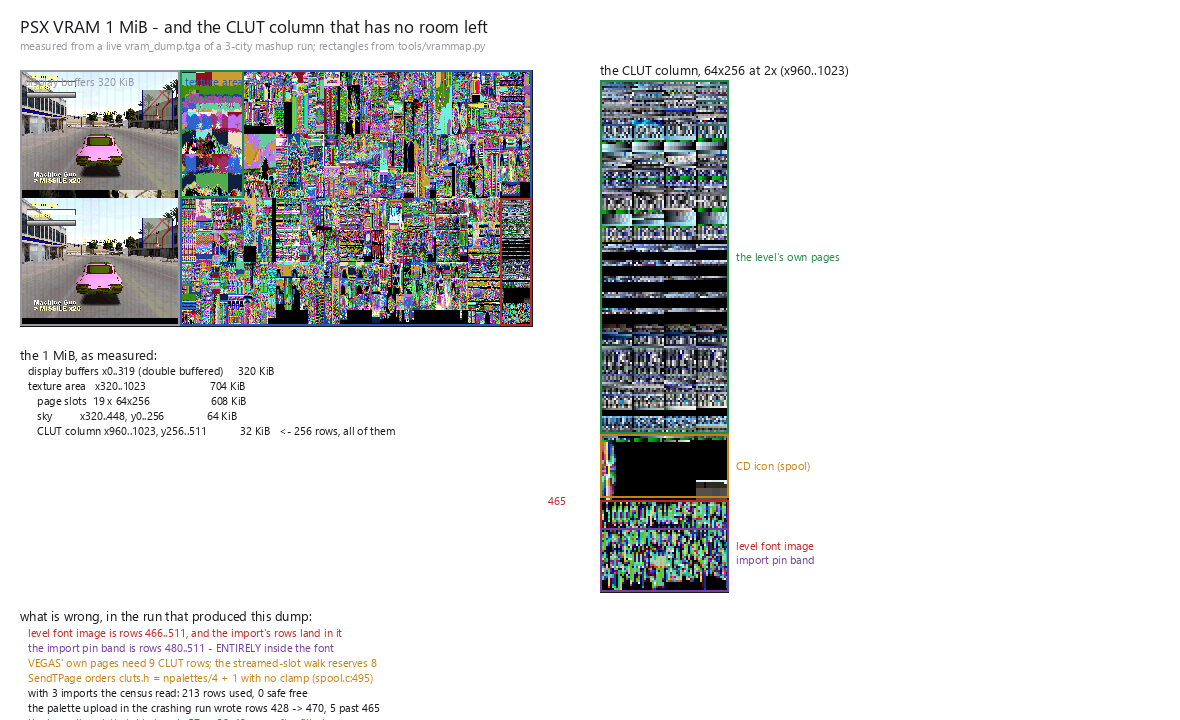
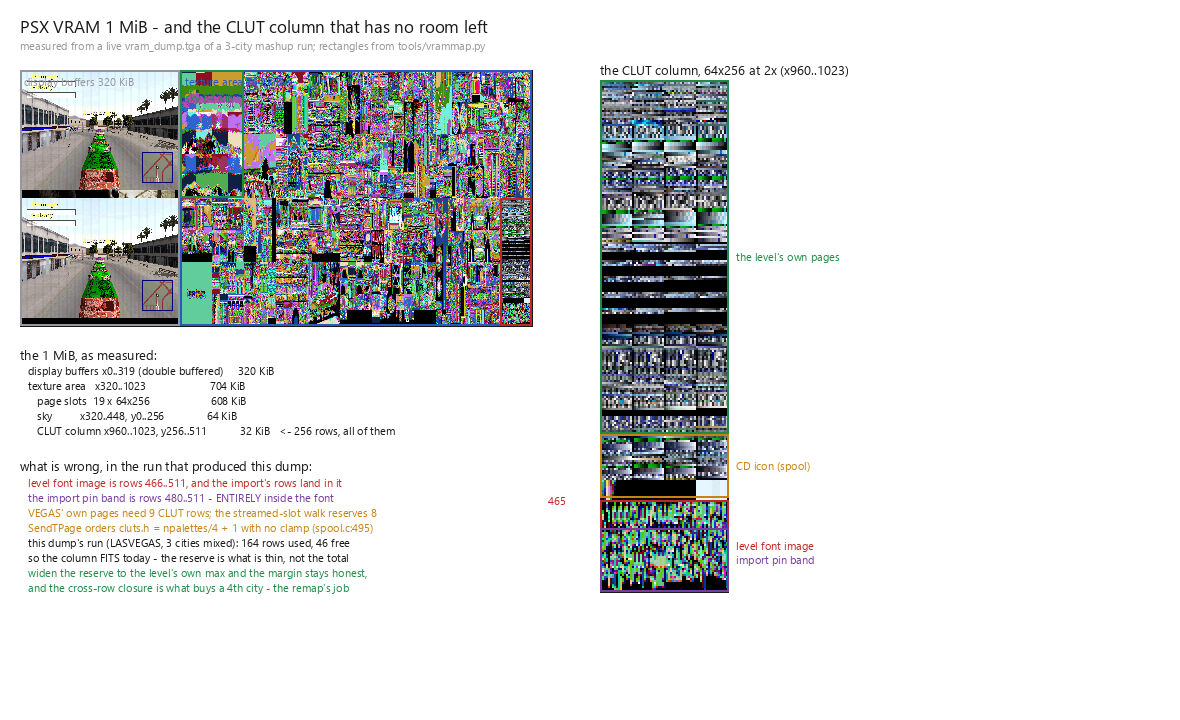
carhacks docs: fix the audit's inaccuracies, and stop the VRAM figure clipping
Documentation accuracy, from an audit of all eight docs against the code:

- README's slot table was off by one: it said 0..3 were the level's own and 4..6
  free. The code (carimport.h:14-17, mission.c:350-360, dr2limits.h:23-28) has 0..4
  as the level's civilians with 4 the traffic filler, 5..6 the spare pair and 7 the
  special body - which VEHICLES.md already said. Also recorded what the table hides:
  slot 3 is the cop car (civ_ai.c:3390) and slot 4 the traffic filler, so importing
  over 0..4 recolours the level's own traffic.
- MP_ADAPTER.md still claimed the engine reads ONE foreign city per level, and built
  its whole hotload premise on it. That stopped being true when gCarImports[4]
  landed: InitCarImport loads every city the set names and ProcessCarModelLump
  builds each slot from its own city. What is still single-city is the PALETTE side
  (the civ_clut import bank, rows 8..15) - so that is what the doc says now, and the
  superseded measurement is kept but labelled as predating the per-city block.
- CROSS_CITY.md: three wrong module line refs corrected, ChkApplyImports (which does
  not exist) -> chkImportLoadConfig in carimport.c, and "one foreign city's data is
  resident at a time" -> up to four via gCarImports[4].
- 20 stale tool paths repointed across HACK.md, VRAM.md, VEHICLES.md, CROSS_CITY.md
  and PALETTES.md: those tools stayed in cainescrossfire/tools/ when carhacks' own
  moved, so a bare tools/ path no longer resolved.
[…]

diff --git a/tools/make_vram_issues_png.py b/tools/make_vram_issues_png.py
@@ -53,7 +53,24 @@ vram = Image.open(SRC).convert("RGB")
 if vram.size != (1024, 512):
     vram = vram.resize((1024, 512), Image.NEAREST)
 
-W, H = 1180, 720
+# The "what is wrong" block lives in the LEFT column, under the legend, so it can
+# never run off the bottom of the sheet. (It used to start below the 2x CLUT strip,
+# at y=606 on a 720-tall sheet, which clipped its last two lines.)
+WRONG = (
+    (RED,   "level font image is rows 466..511, and the import's rows land in it"),
+    (PURPLE, "the import pin band is rows 480..511 - ENTIRELY inside the font"),
+    (AMBER, "VEGAS' own pages need 9 CLUT rows; the streamed-slot walk reserves 8"),
+    (AMBER, "SendTPage orders cluts.h = npalettes/4 + 1 with no clamp (spool.c:495)"),
+    (INK,   "this dump's run (LASVEGAS, 3 cities mixed): 164 rows used, 46 free"),
+    (INK,   "so the column FITS today - the reserve is what is thin, not the total"),
+    (GREEN, "widen the reserve to the level's own max and the margin stays honest,"),
+    (GREEN, "and the cross-row closure is what buys a 4th city - the remap's job"),
+)
+BLOCK_Y = 456                         # just under the left legend (which ends at 438)
+BLOCK_H = 19 + 15 * len(WRONG)        # one title line, then one per entry
+
+# The sheet grows if the block ever outgrows it, so text cannot be clipped again.
+W, H = 1180, max(720, BLOCK_Y + BLOCK_H + 16)
 sheet = Image.new("RGB", (W, H), WHITE)
 d = ImageDraw.Draw(sheet)
 
@@ -118,21 +135,13 @@ d.text((ZX - 52, row(SAFE_LAST + 1) - 7), "465", fill=RED, font=small)
 d.text((ZX, ZY - 20), "the CLUT column, 64x256 at 2x (x960..1023)",
        fill=INK, font=font)
 
-# ---- what that means --------------------------------------------------------
-y = ZY + 256 * ZC + 14
+# ---- what that means (left column, under the legend) ------------------------
+y = BLOCK_Y
 d.text((SX, y), "what is wrong, in the run that produced this dump:", fill=INK, font=font)
 y += 19
-for col, line in (
-    (RED,   "level font image is rows 466..511, and the import's rows land in it"),
-    (PURPLE, "the import pin band is rows 480..511 - ENTIRELY inside the font"),
-    (AMBER, "VEGAS' own pages need 9 CLUT rows; the streamed-slot walk reserves 8"),
-    (AMBER, "SendTPage orders cluts.h = npalettes/4 + 1 with no clamp (spool.c:495)"),
-    (INK,   "with 3 imports the census read: 213 rows used, 0 safe free"),
-    (INK,   "the palette upload in the crashing run wrote rows 428 -> 470, 5 past 465"),
-    (GREEN, "the import's palette table is only 57 -> 38-42 rows after filtering,"),
-    (GREEN, "but the cross-row closure pulls 142-152 of them back - the remap's job"),
-):
+for col, line in WRONG:
     d.text((SX + 8, y), line, fill=col, font=small); y += 15
+assert y <= H, "the sheet is too short for the block: %d > %d" % (y, H)
 
 os.makedirs(os.path.dirname(OUT), exist_ok=True)
 sheet.save(OUT)

diff --git a/docs/CROSS_CITY.md b/docs/CROSS_CITY.md
@@ -100,8 +100,8 @@ The import mallocs and holds the **whole foreign DATA1 region**
 (the block is a sub-range; `FORMATS.md` §1 sizes DATA1, §3 sizes the block) —
 plus the foreign `.LCF` (4096 bytes on disk). All of it is held for the **whole
 level**: it is freed only when the next level initialises the import again
-(`FreeCarImport` at `models.c:424`), or on a failed load. So one foreign city's
-data is resident at a time.
+(`FreeCarImport` at `models.c:424`), or on a failed load. Up to **four** cities' data can be resident at once
+(`gCarImports[4]`), one block per imported slot.
 
 A stock level pays nothing: `gCarImportCity` stays `-1` and every `GetCarImport*`
 getter answers NULL (`models.c:455-537`).
@@ -154,7 +154,9 @@ full:
 So the column accepts **one** imported car and already paints over rows 466..511
 (the level font) to do it (`VRAM.md` §6.1; the import's own rows start at `y=480`).
 A second city adds a whole second palette table (~15 KB ≈ 40+ rows) with **no room
-at all**. That is why "one foreign city per level" is honest, and why the CLUT
+at all**. That is why **one guest city's PALETTES per level** is honest — the
+geometry side holds several cities (`gCarImports[4]`), but the palette side does
+not — and why the CLUT
 reclaim in `VRAM.md` §6.1 is the *prerequisite* for the hotload, not a parallel
 task: until the column can hold two cities, no amount of RAM headroom helps.
 
@@ -177,7 +179,7 @@ did not load".
   no model 11 (the model-completeness table is `FORMATS.md` §3). A slot forced to
   a model the city lacks, with no fallback, is left with NULL model pointers —
   the state `CreateDentableCar`'s guard flags (`denting.c:224`, `:237`). The
-  carhacks module lists this explicitly (`carhacks.c:27-28`).
+  carhacks module lists this explicitly (`carhacks.c:33-40`).
 - **The special slot ignores the per-city colours.** `car_cosmetics[SPECIAL_CAR_SLOT]`
   is not taken per model — it uses the cache `levelSpecCosmetics[model - 8]`,
   filled once for models 8..12 (`SetupSpecCosmetics`, `cosmetic.c:150-168`).
@@ -205,7 +207,7 @@ did not load".
 
 ## Turning it on
 
-In `JERICHO/CONFIG/carhacks.ini` (off by default — `carhacks.c:47`):
+In `JERICHO/CONFIG/carhacks.ini` (off by default — `carhacks.c:55`):
 
 ```
 cross_city_vehicles = 1
@@ -213,7 +215,7 @@ import = 2:0:10
 ```
 
 `cross_city_vehicles` gates the whole hack. `import` takes comma-separated
-`slot:city:model` entries (`carhacks.c:143-206`) — here, Chicago's school bus
+`slot:city:model` entries (`carimport.c:251-345`) — here, Chicago's school bus
 (model 10) into resident slot 2. City numbers are `0` CHICAGO, `1` HAVANA,
 `2` VEGAS, `3` RIO (`system.c:130`). Slots 0..4 feed ambient traffic (the model
 list is `modelRandomList`, `civ_ai.c:47`), 5.. up to count-2 are spare capacity
@@ -242,7 +244,7 @@ the foreign file really is what got loaded — `FORMATS.md` §3 owns those figur
   after (`:433-451`), and holds the per-slot city (`GetCarModelSourceCity`, `:334`).
 - **`carhacks.c`** is the module: `ChkOnCarDataSource` reads
   `source_city` / `traffic_model` / `traffic_slot` and calls
-  `ChkApplyImports` for the `import` list. It does not compute anything and does not
+  `chkImportLoadConfig` for the `import` list. It does not compute anything and does not
   choose the player's car —
   it just writes model numbers and source cities and lets the engine read them.
 - **Consumers:** `ProcessCarModelLump` (`models.c:633`), `ProcessCosmeticsLump`
@@ -321,14 +323,14 @@ Still open:
 - **The thrash meter is the thing to watch.** If `page re-uploads` in the final page
   state grows with the frame count, something is still taking pages back — check the
   two `spool.c` sites first, since they bypass `LoadTPageAndCluts` by design.
-- **Run `tools/crosscheck.py` (or `devcheck.sh`, which calls it) instead of reading the
+- **Run `cainescrossfire/tools/crosscheck.py` (or `cainescrossfire/tools/devcheck.sh`, which calls it) instead of reading the
   page state by eye.** It asserts the three things the engine's own summary cannot see
   (`carhacks/docs/HACK.md`, "Where an imported page may live now"): an imported page must not
   sit on the world's/scenery's rectangle, must not take a live local car's page, and its
   CLUTs must match the source city's file.
 - Visual confirmation stays the user's: the logs prove pages are placed, claimed and
   kept — not that a car looks right. `-vramview` opens a second window showing the
-  live VRAM so a page or CLUT can be watched as it changes, `tools/cardump.py` renders
+  live VRAM so a page or CLUT can be watched as it changes, `cainescrossfire/tools/cardump.py` renders
   last run's pages under each palette, and `tools/levpalette.py` gives the defaults to
   compare against.
 
@@ -358,7 +360,7 @@ fanned out to the side, where a spawn point's kerb or wall is):
     [carhacks] spawn: CHICAGO model 8 (resident slot 4) in CAR_DATA slot 2, palette 0, 900 ahead - player (24453,30,-497793) car (25353,30,-497794)
     [carhacks] spawn: HAVANA model 9 (resident slot 5) in CAR_DATA slot 3, palette 0, 1800 ahead - player (24453,30,-497793) car (26253,30,-497794)
     [carhacks] spawn: VEGAS model 10 (resident slot 6) in CAR_DATA slot 4, palette 0, 2700 ahead - player (24453,30,-497793) car (27154,30,-497795)
-    [carhacks] spawn: 3 imported car(s) placed ahead of the player
+    [carhacks] spawn: 3 imported car(s) placed ahead of the player, 1500 units apart
 
 The recipe is the one cainescrossfire's own opponent spawn already proves
 (`ai/opponent.c:518-528,678`): the first `CAR_DATA` whose `controlType` is

diff --git a/MP_ADAPTER.md b/MP_ADAPTER.md
@@ -17,8 +17,10 @@ Two facts, both measured:
    same number is a *different* vehicle in each (`VEHICLES.md`). So "Rio's model 9"
    is not expressible on mp's wire at all.
 
-On top of that, the engine reads a level's car data from **one** foreign city
-(`models.c`, `gCarModelSource`), so a session has to *agree* which city that is.
+On top of that, while the *geometry* side is now per-city (`gCarImports[4]`,
+one block per slot), the **palette** side still admits one guest city - the
+`civ_clut` import bank, rows 8..15 - so a session has to *agree* which city
+that is.
 Today it is whatever each machine's own `carhacks.ini` happens to say.
 
 ## The identity schema — `carid.h`
@@ -93,11 +95,12 @@ picker, so the local car always comes out palette 0 and none of this would ever
 fire. `CHK_FORCE_PLAYER_PALETTE=<n>` sets it, the way `CHK_FORCE_CAR` drives the
 menu.
 
-**The limit - one foreign city per level.** `chkNetFoldPeerCars()` folds every
+**The limit - one guest city's PALETTES.** `chkNetFoldPeerCars()` folds every
 peer's car into the level's import set, so a peer is drawn as their own vehicle
-where the engine can hold it. It cannot when that car comes from a SECOND foreign
-city: the engine reads one foreign city per level, and the set refuses the entry
-loudly (below). A car from the level's own city is skipped - it needs no import,
+where the engine can hold it. The geometry side now holds several cities at once
+(`gCarImports[4]`, one block per slot), but the **palette** side does not: the
+`civ_clut` import bank (rows 8..15) is one city's worth of rows, and the set
+refuses a second city's entry loudly (below). A car from the level's own city is skipped - it needs no import,
 and skipping it keeps an identity that has not settled yet from claiming a spare
 slot with the level's own model 0.
 
@@ -109,8 +112,10 @@ unit.
 
 ### The hotload hand-off (next unit)
 
-**Measured first: a second city is not partially supported, it is absent.** The
-gate was opened by hand (`two_guest_cities = 1`, a measurement lever in
+**Measured first, BEFORE the per-city import block landed.** The log below is
+from that build, when a second city's geometry really was absent; the per-city
+block has since removed that specific symptom, and this is kept as the record of
+what the measurement looked like. The gate was opened by hand (`two_guest_cities = 1`, a measurement lever in
 `carimport.c`) so the ENGINE finally saw a set naming two cities:
 
 ```
@@ -124,9 +129,9 @@ cross-city: slot 5 geometry from HAVANA model 8
 [pair] verdict: PASS   (no crash, no dump, 0 dumps)
 ```
 
-The per-slot source city is real, but a level's car lumps are read for ONE city
-(`ProcessCarModelLump`), so a slot pointing at a second city gets no data at all -
-quietly. That is what the hotload actually has to do:
+The per-slot source city is real, and each slot now builds from its own city
+(`ProcessCarModelLump`, `models.c:764-783`). That is what the hotload actually
+has to do:
 
 1. The identity is already there: `chkNetPeerCar()` says which (city, model) each
    peer drives, and `chkNetFoldPeerCars()` is already the place a car joins the set.
@@ -145,9 +150,9 @@ quietly. That is what the hotload actually has to do:
 
 ## Authority and lifecycle
 
-The **host is authoritative**, and the reason is the engine's one-guest-city rule:
-there is exactly one foreign city per level, so the host's choice has to win for
-everyone. `mp_agree_imports = 0` (`carhacks.ini`) turns the whole agreement off —
+The **host is authoritative**, and the reason is the palette bank's one-guest-city
+rule: the `civ_clut` import bank admits one city, so the host's choice has to win
+for everyone. `mp_agree_imports = 0` (`carhacks.ini`) turns the whole agreement off —
 every machine keeps its own set, which is what a session where the players
 deliberately want different cars needs, and what the three-city stress test below
 uses.

diff --git a/docs/HACK.md b/docs/HACK.md
@@ -80,16 +80,16 @@ region to put a foreign vehicle's pages in.
 
 | what | how |
 |---|---|
-| drive a Rio police car in Havana | `tools/launch_havana_rio_police.bat [model] [test [frames]]` (model 0 = the Rio police car) |
-| drive a Havana police car in Rio | `tools/launch_rio_havana_police.bat [model] [test [frames]]` (model 0 = the Havana police car) |
-| any cross-city combination | `tools/devcheck.sh [frames]` — exits non-zero on failure |
+| drive a Rio police car in Havana | `cainescrossfire/tools/launch_havana_rio_police.bat [model] [test [frames]]` (model 0 = the Rio police car) |
+| drive a Havana police car in Rio | `cainescrossfire/tools/launch_rio_havana_police.bat [model] [test [frames]]` (model 0 = the Havana police car) |
+| any cross-city combination | `cainescrossfire/tools/devcheck.sh [frames]` — exits non-zero on failure |
 | where the player's car came from | `JERICHO-RUN: level=… carslot=5 model=9 …` then the engine's `slot 5 geometry from RIO model 9` |
 | where imported pages landed | `cross-city: pinned set 77 index 77: slot=14, rect=(512,0), page=0008 …` |
-| what is actually in VRAM | `JERICHO_DUMPVRAM=1` then `tools/vramdump.py vram_dump.tga --png out.png` |
+| what is actually in VRAM | `JERICHO_DUMPVRAM=1` then `cainescrossfire/tools/vramdump.py vram_dump.tga --png out.png` |
 | where VRAM went, and what is left | the engine's own `JERICHO-VRAM: texture used=704/704 KiB (slots 608 + clut 32 + sky 64); clut strip 172/256 rows (84 free); … largest free in texture area=…` line, printed once per level load (see also `tools/vrammap.py`) |
 | what a city's car palettes *should* be | `tools/levpalette.py LEVELS/<CITY>.LEV --out out/` — a swatch PNG + a text table per city, from `LUMP_PALLET` (see `PALETTES.md` §7) |
-| the last run's car textures under each palette | `tools/cardump.py vram_dump.tga --log JERICHO.log --out out/` — one PNG per imported set, a row per palette, plus the run's actual page CLUT as a control (`PALETTES.md` §7) |
-| whether a run's palettes/pages behaved | `tools/crosscheck.py <run text> [--tga vram_dump.tga] [--lev SRC.LEV]` — the three invariants the engine's own summary misses (exit 0 held / 1 violated / 2 no import) |
+| the last run's car textures under each palette | `cainescrossfire/tools/cardump.py vram_dump.tga --log JERICHO.log --out out/` — one PNG per imported set, a row per palette, plus the run's actual page CLUT as a control (`PALETTES.md` §7) |
+| whether a run's palettes/pages behaved | `cainescrossfire/tools/crosscheck.py <run text> [--tga vram_dump.tga] [--lev SRC.LEV]` — the three invariants the engine's own summary misses (exit 0 held / 1 violated / 2 no import) |
 | VRAM live, while you play | `-vramview [frames]` opens a second window showing the live VRAM every frame (and re-dumps `vram_live.tga` every N frames, default 15, for `vramdump.py`) |
 | replay a run exactly | `-seed N` (the seed picks module randomness) |
 
@@ -195,12 +195,12 @@ Reproduce with:
 ```
 JERICHO_DUMPVRAM=1 ./REDRIVER2_dev.exe -nointro -level havana -car 9 ... -frames 200 -seed 7
 grep "imported slot\|poly tpage index\|pinned set\|page check" JERICHO.log
-python3 tools/vramdump.py vram_dump.tga --log JERICHO.log --samples --png overlay.png
+python3 cainescrossfire/tools/vramdump.py vram_dump.tga --log JERICHO.log --samples --png overlay.png
 ```
 
 `page check - slot 5 clean: 238 of 254 polys resolve to a pinned imported page` is the
 one-line regression test; anything below that number is a poly drawing a rectangle the
-import never filled. `tools/vramdump.py --samples` boxes the sampled rectangles (red, with
+import never filled. `cainescrossfire/tools/vramdump.py --samples` boxes the sampled rectangles (red, with
 poly counts) against the pinned ones (green) on a dump.
 
 **Residual (known, measured):** the remaining polys name **set 0**, which has no page in

diff --git a/README.md b/README.md
@@ -207,9 +207,15 @@ shares the same `MAX_CAR_RESIDENT_MODELS` array:
 
 | slots | who |
 |---|---|
-| `0..3` | the level's own city's cars |
-| `4..6` | **free** — where imports go, and where **mp** puts an extra player's car |
-| `7` | the level's special body |
+| `0..4` | the level's own city's civilians — `mission.c:350-354` fills these from the mission header, and `4` is the engine's own traffic filler (`dr2limits.h:23-28`) |
+| `5..6` | **free** — the spare pair. This is where imports go, and where **mp** puts an extra player's car |
+| `7` | the level's special body (`SPECIAL_CAR_SLOT`) |
+
+Two of the civilian slots are load-bearing and must not be imported over casually:
+**slot 3 is the cop car** (`externalCopModel = residentCarModels[3]`, `civ_ai.c:3390`)
+and **slot 4 is the traffic filler**. A set *may* name 0..4 — the parser accepts any
+slot below the count — but that recolours the level's own traffic, because traffic
+rolls slots 0/1/2/4 (`civ_ai.c:47`). The module's own choosers start at **5**.
 
 With `mp` loaded, slots **5 and 6** belong to the session (one per additional
 player). This is why carhacks' `CAR_DATA_SOURCE` handler runs at priority 10: the
@@ -410,7 +416,7 @@ player**:
 ```
 [carhacks] spawn: CHICAGO model 8 (resident slot 4) in CAR_DATA slot 2, palette 0,  900 ahead - player (24453,30,-497793) car (25353,30,-497794)
 [carhacks] spawn: HAVANA  model 9 (resident slot 5) in CAR_DATA slot 3, palette 0, 1800 ahead - player (24453,30,-497793) car (26253,30,-497794)
-[carhacks] spawn: 3 imported car(s) placed ahead of the player
+[carhacks] spawn: 3 imported car(s) placed ahead of the player, 1500 units apart
 ```
 
 They go **forward**, along the matrix's third column — the engine's own "a point
@@ -447,9 +453,12 @@ Everything is in the run's log; grep for these:
 
 ## Docs
 
-The mechanism and the city data formats are documented next to the engine code they
-reverse-engineer, in Caine's Crossfire's folder (so they were not moved with the
-code):
+The mechanism and the city data formats live in this module's `docs/`, beside the
+code they describe. (Only `FORMATS.md`, which documents the level-file and car-lump
+formats that Caine's Crossfire's own tools read, stayed in
+`cainescrossfire/carhacks/`.) Note that engine `file:line` citations throughout
+these docs are **approximate by design** - the engine moves, the mechanism does
+not - so confirm a citation before relying on the exact line:
 
 - [`CROSS_CITY.md`](docs/CROSS_CITY.md) — what a cross-city import is, cost and lifetime, the budget, the traps
 - [`HACK.md`](docs/HACK.md) — the mechanism in the order it runs

diff --git a/docs/PALETTES.md b/docs/PALETTES.md
@@ -278,7 +278,7 @@ A useful run proves three things instead:
 1. no imported set resolves into a *host* `civ_clut` row;
 2. no imported page occupies a VRAM rectangle the world streams into;
 3. a world set's `texture_pages[]` / `texture_cluts[]` agree with the pixels
-   actually at its rectangle (see `tools/vramdump.py`).
+   actually at its rectangle (see `cainescrossfire/tools/vramdump.py`).
 
 ---
 
@@ -287,9 +287,9 @@ A useful run proves three things instead:
 | what | how |
 |---|---|
 | what a city's car palettes *should* look like | `tools/levpalette.py <CITY>.LEV` — reads `LUMP_PALLET` and writes a swatch sheet per city + the raw rows (`--out DIR`) |
-| what a car's texture looks like under **each** of its palettes, from the **last run** | `tools/cardump.py` — takes the run's `vram_dump.tga` (`JERICHO_DUMPVRAM=1`) plus the run's log, and blits each imported car's texture page(s) through each palette to one PNG per palette |
-| whether a run's palettes/pages actually behaved | `tools/crosscheck.py <run text> [--tga vram_dump.tga] [--lev SRC.LEV]` — asserts the three invariants in §6 (exit 0 held / 1 violated / 2 no import) |
-| what is actually in VRAM right now | `-vramview [frames]` (live window) / `tools/vramdump.py vram_dump.tga --png out.png` |
+| what a car's texture looks like under **each** of its palettes, from the **last run** | `cainescrossfire/tools/cardump.py` — takes the run's `vram_dump.tga` (`JERICHO_DUMPVRAM=1`) plus the run's log, and blits each imported car's texture page(s) through each palette to one PNG per palette |
+| whether a run's palettes/pages actually behaved | `cainescrossfire/tools/crosscheck.py <run text> [--tga vram_dump.tga] [--lev SRC.LEV]` — asserts the three invariants in §6 (exit 0 held / 1 violated / 2 no import) |
+| what is actually in VRAM right now | `-vramview [frames]` (live window) / `cainescrossfire/tools/vramdump.py vram_dump.tga --png out.png` |
 | which sets/rows a level uses | the engine's own lines: `cross-city: level page state …`, `cross-city: %s set %d -> index %d …`, `cross-city: pinned set %d index %d: slot=%d, rect=(%d,%d) …` |
 
 The exporter tools are how a fix is shown *visually*: `levpalette.py` gives the

diff --git a/docs/VEHICLES.md b/docs/VEHICLES.md
@@ -65,7 +65,7 @@ Known so far, and worth keeping:
 | CHICAGO | 10 | school bus | `CARMODEL_10_clean.dmodel`; `-car slot8` |
 | CHICAGO | 11 | (reserved, no data) | forcing it crashes in load |
 | VEGAS | (special) | ambulance | "Steal the Ambulance" mission; exact model TBC |
-| HAVANA | **0** | **police car** | found by cycling (`tools/cycle_vehicles.bat`); drives from `import = 3:1:0` in Rio (slot 3 = Rio's model 0) |
+| HAVANA | **0** | **police car** | found by cycling (`cainescrossfire/tools/cycle_vehicles.bat`); drives from `import = 3:1:0` in Rio (slot 3 = Rio's model 0) |
 | HAVANA | 9 | truck | seen in Rio (import slot 5) — so 9 is NOT the cop car |
 
 Not yet identified — look at the car in a level, then write it here:

diff --git a/docs/VRAM.md b/docs/VRAM.md
@@ -176,7 +176,7 @@ largest free in texture area=(0,0) 0x0 = 0 KiB
 
 Two dumps from **different states of the same session** (a frontend dump and an in-game
 one, or -frames 20 and -frames 300) are what let the tool separate *resident* from
-*streamed*; a single dump can only say "written". `tools/vram_baseline.txt` is the recorded
+*streamed*; a single dump can only say "written". `cainescrossfire/tools/vram_baseline.txt` is the recorded
 baseline (Havana, seed 7, stock and `import = 5:3:9`) with the exact commands in its
 header, so a future change can be diffed against it.
 
